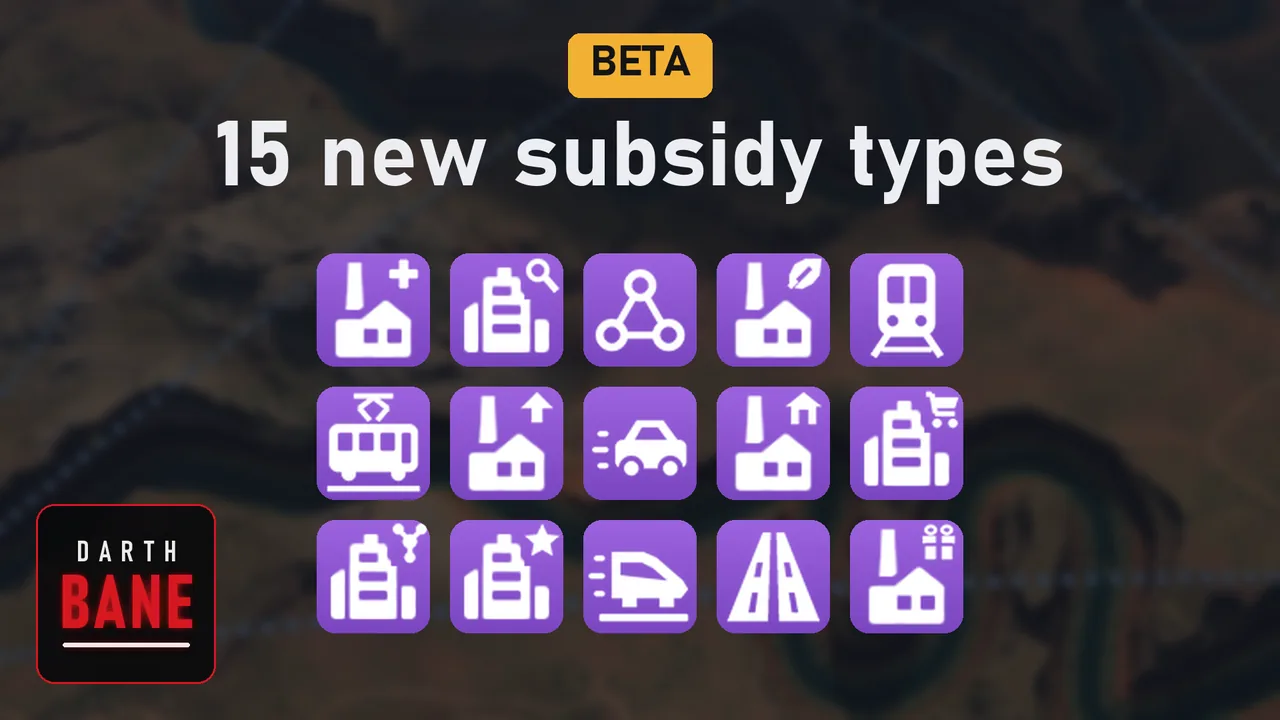
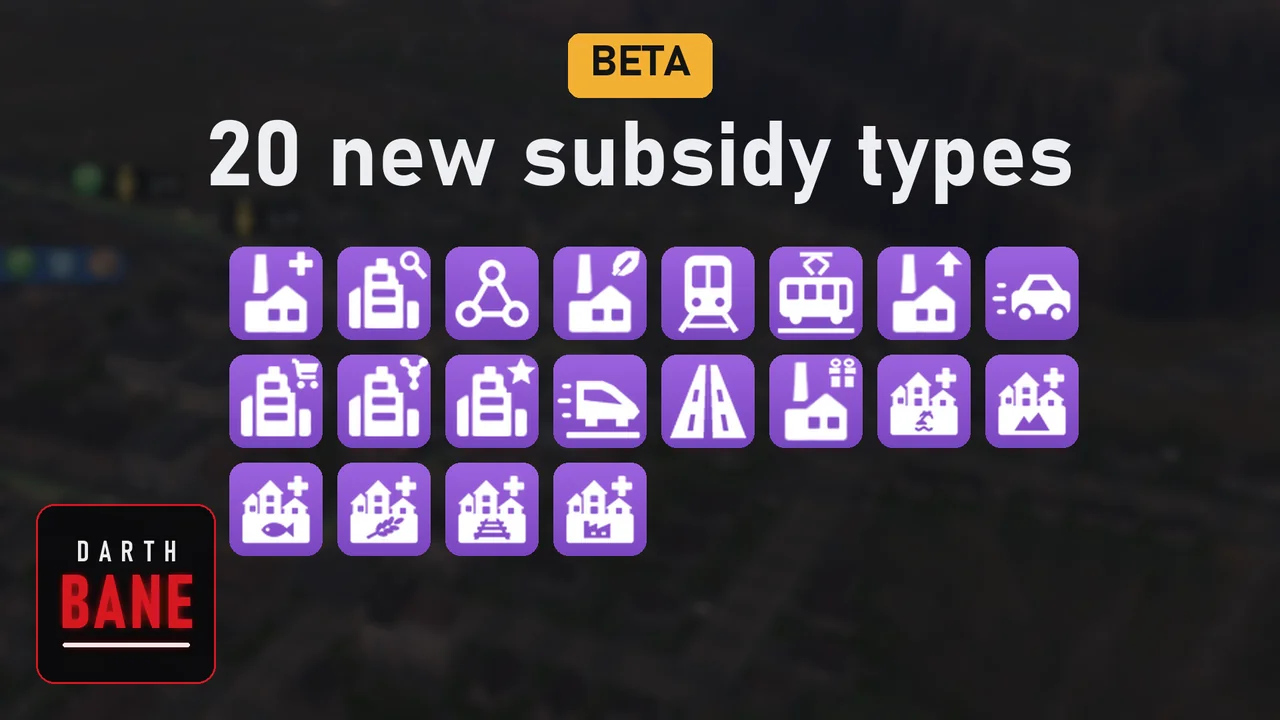
Waste Industry marked Coming soon; overview shows the Subsidies+ 1.3.0 cover

diff --git a/index.html b/index.html
@@ -191,6 +191,11 @@ footer p { margin: 0 0 0.4rem; max-width: 48rem; }
 .site-nav a[aria-current="page"] { opacity: 1; font-weight: 600; }
 .site-nav .home { font-family: var(--display); font-weight: 700; letter-spacing: 0.04em; opacity: 1; margin-right: auto; }
 
+/* Badge of a mod that is not released yet (overview card, guide header). */
+.soon { display: inline-block; padding: 0.2em 0.6em; border-radius: 6px; background: #f3b034; color: #1b1f26;
+  font-family: var(--display); font-weight: 700; font-size: 0.85rem; letter-spacing: 0.06em; text-transform: uppercase;
+  line-height: 1.2; vertical-align: middle; }
+
 /* Changelog at the end of a mod page: one folding block per version, the newest open. */
 .changelog { margin-top: 2.5rem; }
 .changelog h2 { font-family: var(--display); font-size: 1.3rem; margin: 0 0 0.75rem; }
@@ -211,6 +216,8 @@ footer p { margin: 0 0 0.4rem; max-width: 48rem; }
 .mod-card .text { display: flex; align-items: baseline; justify-content: space-between; gap: 0.5rem 1rem; flex-wrap: wrap; padding: 1rem 1.25rem 1.2rem; }
 .mod-card h2 { font-family: var(--display); font-weight: 700; font-size: clamp(1.8rem, 4vw, 2.3rem); line-height: 1; margin: 0; }
 .mod-card p { margin: 0; color: var(--muted); font-size: 1.05rem; }
+.mod-card .pic { position: relative; }
+.mod-card .pic .soon { position: absolute; top: 0.9rem; left: 0.9rem; font-size: 1rem; box-shadow: 0 2px 8px rgb(0 0 0 / 0.35); }
 </style>
 </head>
 <body>
@@ -230,7 +237,7 @@ footer p { margin: 0 0 0.4rem; max-width: 48rem; }
     <div class="text"><h2>Subsidies+</h2><p>20 new subsidies</p></div>
   </a>
   <a class="mod-card" href="./waste-industry/">
-    <img src="./images/waste-industry.webp" alt="" width="1280" height="720">
+    <div class="pic"><img src="./images/waste-industry.webp" alt="" width="1280" height="720"><span class="soon">Coming soon</span></div>
     <div class="text"><h2>Waste Industry</h2><p>Waste bins, landfills, incineration, recycling</p></div>
   </a>
 </main>

diff --git a/waste-industry/index.html b/waste-industry/index.html
@@ -191,6 +191,11 @@ footer p { margin: 0 0 0.4rem; max-width: 48rem; }
 .site-nav a[aria-current="page"] { opacity: 1; font-weight: 600; }
 .site-nav .home { font-family: var(--display); font-weight: 700; letter-spacing: 0.04em; opacity: 1; margin-right: auto; }
 
+/* Badge of a mod that is not released yet (overview card, guide header). */
+.soon { display: inline-block; padding: 0.2em 0.6em; border-radius: 6px; background: #f3b034; color: #1b1f26;
+  font-family: var(--display); font-weight: 700; font-size: 0.85rem; letter-spacing: 0.06em; text-transform: uppercase;
+  line-height: 1.2; vertical-align: middle; }
+
 /* Changelog at the end of a mod page: one folding block per version, the newest open. */
 .changelog { margin-top: 2.5rem; }
 .changelog h2 { font-family: var(--display); font-size: 1.3rem; margin: 0 0 0.75rem; }
@@ -309,7 +314,7 @@ footer a { color: inherit; }
 <header class="top wrap">
   <div class="brand">
     <h1 aria-label="Waste Industry Docs"><span class="logo" aria-hidden="true"><img id="logo-mark" alt=""></span><span aria-hidden="true">Waste Industry<span class="docs">Docs</span></span></h1>
-    <p class="tagline">Transport Fever 3 mod: street waste bins, landfills, an incinerator and recycling.</p>
+    <p class="tagline"><span class="soon">Coming soon</span> Transport Fever 3 mod: street waste bins, landfills, an incinerator and recycling.</p>
   </div>
 </header>
 

diff --git a/template.html b/template.html
@@ -18,6 +18,8 @@
 .mod-card .text { display: flex; align-items: baseline; justify-content: space-between; gap: 0.5rem 1rem; flex-wrap: wrap; padding: 1rem 1.25rem 1.2rem; }
 .mod-card h2 { font-family: var(--display); font-weight: 700; font-size: clamp(1.8rem, 4vw, 2.3rem); line-height: 1; margin: 0; }
 .mod-card p { margin: 0; color: var(--muted); font-size: 1.05rem; }
+.mod-card .pic { position: relative; }
+.mod-card .pic .soon { position: absolute; top: 0.9rem; left: 0.9rem; font-size: 1rem; box-shadow: 0 2px 8px rgb(0 0 0 / 0.35); }
 </style>
 
 <!--SITE_NAV-->
@@ -34,7 +36,7 @@
     <div class="text"><h2>Subsidies+</h2><p>20 new subsidies</p></div>
   </a>
   <a class="mod-card" href="./waste-industry/">
-    <img src="./images/waste-industry.webp" alt="" width="1280" height="720">
+    <div class="pic"><img src="./images/waste-industry.webp" alt="" width="1280" height="720"><span class="soon">Coming soon</span></div>
     <div class="text"><h2>Waste Industry</h2><p>Waste bins, landfills, incineration, recycling</p></div>
   </a>
 </main>

diff --git a/shared/site.css b/shared/site.css
@@ -178,6 +178,11 @@ footer p { margin: 0 0 0.4rem; max-width: 48rem; }
 .site-nav a[aria-current="page"] { opacity: 1; font-weight: 600; }
 .site-nav .home { font-family: var(--display); font-weight: 700; letter-spacing: 0.04em; opacity: 1; margin-right: auto; }
 
+/* Badge of a mod that is not released yet (overview card, guide header). */
+.soon { display: inline-block; padding: 0.2em 0.6em; border-radius: 6px; background: #f3b034; color: #1b1f26;
+  font-family: var(--display); font-weight: 700; font-size: 0.85rem; letter-spacing: 0.06em; text-transform: uppercase;
+  line-height: 1.2; vertical-align: middle; }
+
 /* Changelog at the end of a mod page: one folding block per version, the newest open. */
 .changelog { margin-top: 2.5rem; }
 .changelog h2 { font-family: var(--display); font-size: 1.3rem; margin: 0 0 0.75rem; }

diff --git a/subsidies-plus/index.html b/subsidies-plus/index.html
@@ -191,6 +191,11 @@ footer p { margin: 0 0 0.4rem; max-width: 48rem; }
 .site-nav a[aria-current="page"] { opacity: 1; font-weight: 600; }
 .site-nav .home { font-family: var(--display); font-weight: 700; letter-spacing: 0.04em; opacity: 1; margin-right: auto; }
 
+/* Badge of a mod that is not released yet (overview card, guide header). */
+.soon { display: inline-block; padding: 0.2em 0.6em; border-radius: 6px; background: #f3b034; color: #1b1f26;
+  font-family: var(--display); font-weight: 700; font-size: 0.85rem; letter-spacing: 0.06em; text-transform: uppercase;
+  line-height: 1.2; vertical-align: middle; }
+
 /* Changelog at the end of a mod page: one folding block per version, the newest open. */
 .changelog { margin-top: 2.5rem; }
 .changelog h2 { font-family: var(--display); font-size: 1.3rem; margin: 0 0 0.75rem; }

diff --git a/waste-industry/template.html b/waste-industry/template.html
@@ -113,7 +113,7 @@ footer a { color: inherit; }
 <header class="top wrap">
   <div class="brand">
     <h1 aria-label="Waste Industry Docs"><span class="logo" aria-hidden="true"><img id="logo-mark" alt=""></span><span aria-hidden="true">Waste Industry<span class="docs">Docs</span></span></h1>
-    <p class="tagline">Transport Fever 3 mod: street waste bins, landfills, an incinerator and recycling.</p>
+    <p class="tagline"><span class="soon">Coming soon</span> Transport Fever 3 mod: street waste bins, landfills, an incinerator and recycling.</p>
   </div>
 </header>
 
